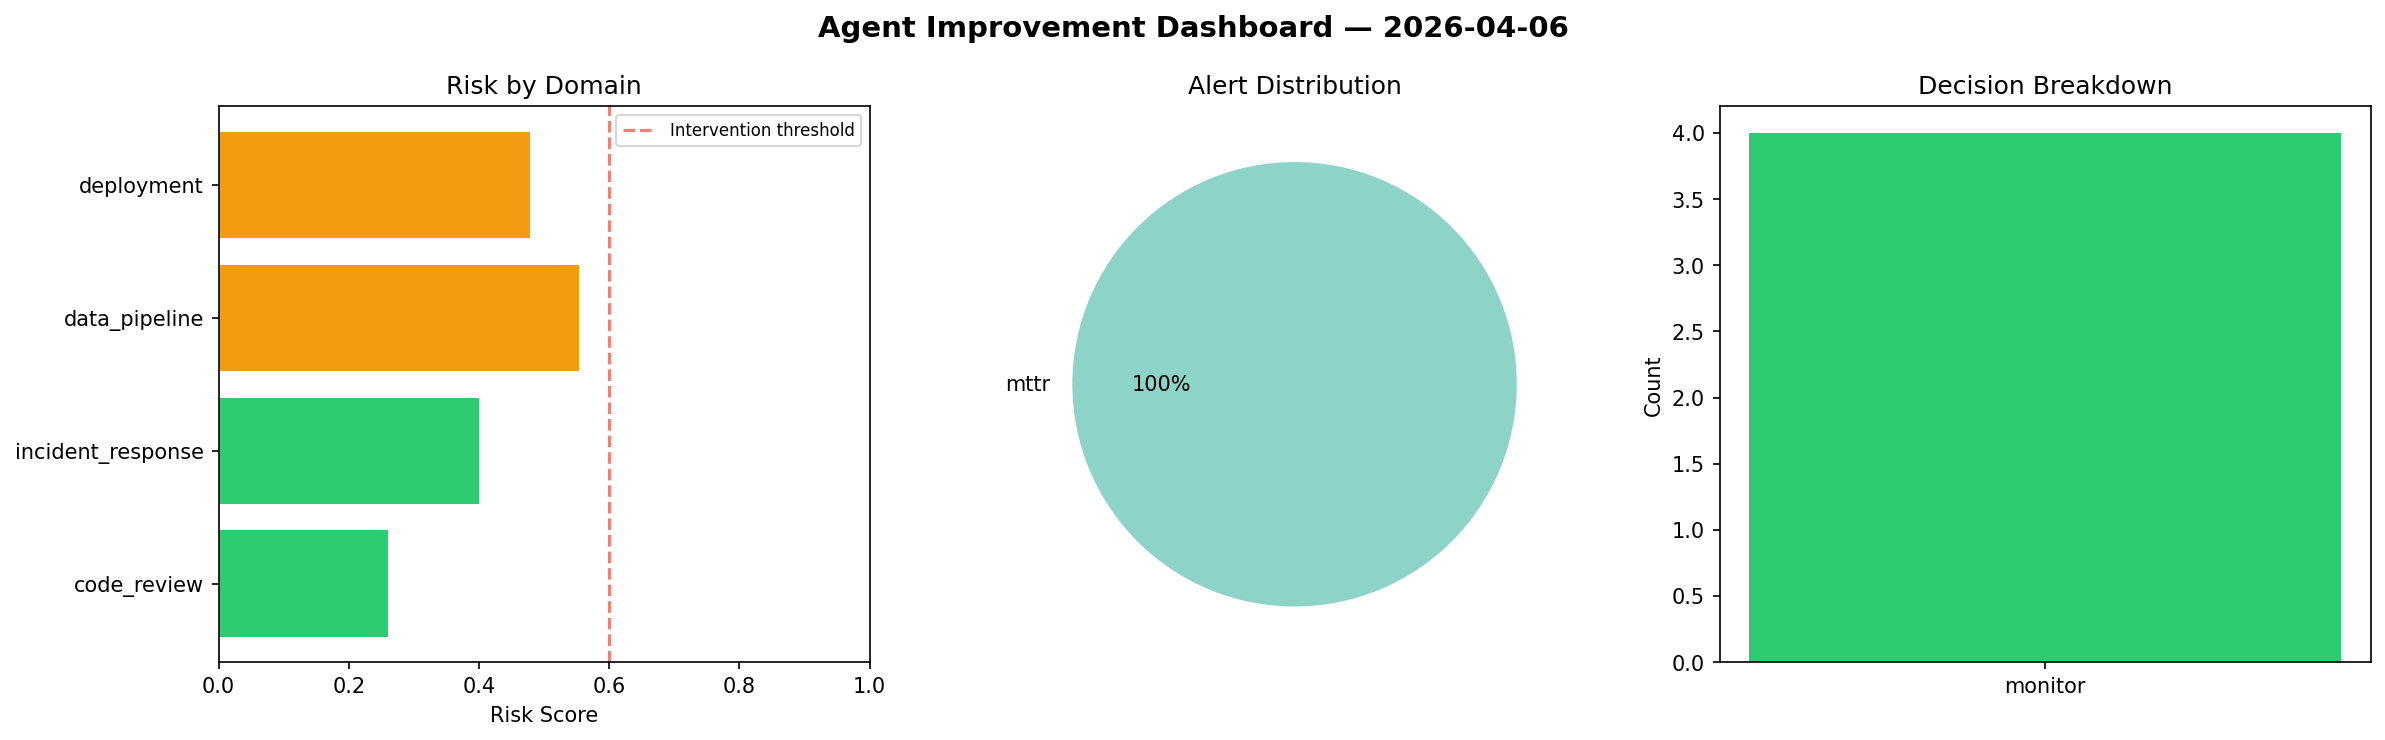
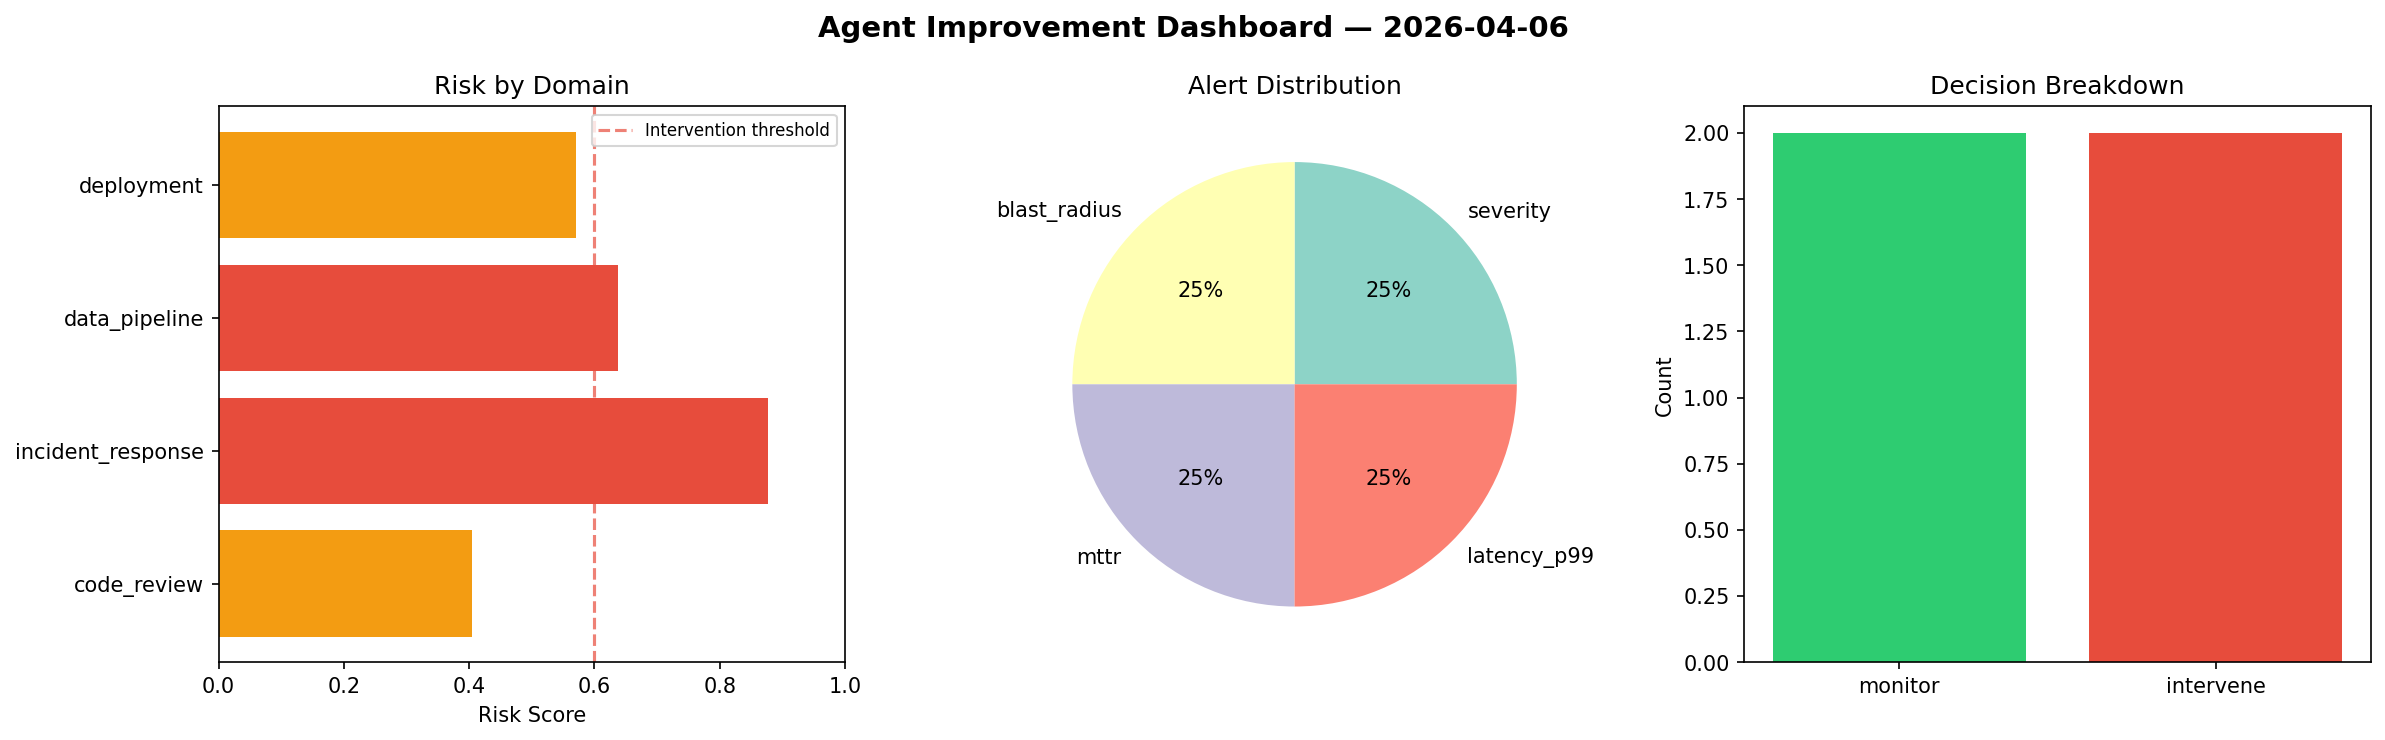
agent-improvement: daily cycle 2026-04-06T09:41

diff --git a/logs/2026-04-06.md b/logs/2026-04-06.md
@@ -1,6 +1,6 @@
 # Agent Improvement Report — 2026-04-06
 
-**Cycle ID:** `c0fe105c` | **Avg Risk:** 0.4228 | **Interventions:** 0/4
+**Cycle ID:** `f7ca8304` | **Avg Risk:** 0.622 | **Interventions:** 2/4
 
 ![Dashboard](2026-04-06_dashboard.png)
 
@@ -10,18 +10,18 @@
 
 | Domain | Risk Score | Decision | Alerts |
 |--------|-----------|----------|--------|
-| code_review | 0.2598 | monitor | none |
-| incident_response | 0.3999 | monitor | mttr |
-| data_pipeline | 0.5537 | monitor | none |
-| deployment | 0.4776 | monitor | none |
+| code_review | 0.4044 | monitor | none |
+| incident_response | 0.8765 | intervene | severity, blast_radius, mttr |
+| data_pipeline | 0.6374 | intervene | none |
+| deployment | 0.5699 | monitor | latency_p99 |
 
 ## Delta vs Yesterday
 
 | Domain | Today | Yesterday | Change |
 |--------|-------|-----------|--------|
-| code_review | 0.2598 | 0.8512 | 📉 -69.5% |
-| incident_response | 0.3999 | 0.4143 | 📉 -3.5% |
-| data_pipeline | 0.5537 | 0.4271 | 📈 29.6% |
-| deployment | 0.4776 | 0.7749 | 📉 -38.4% |
+| code_review | 0.4044 | 0.8512 | 📉 -52.5% |
+| incident_response | 0.8765 | 0.4143 | 📈 111.6% |
+| data_pipeline | 0.6374 | 0.4271 | 📈 49.2% |
+| deployment | 0.5699 | 0.7749 | 📉 -26.5% |
 
 **Refinement:** `{'adjustment': 'tighten_thresholds', 'trend': 'degrading', 'window': 4}`
